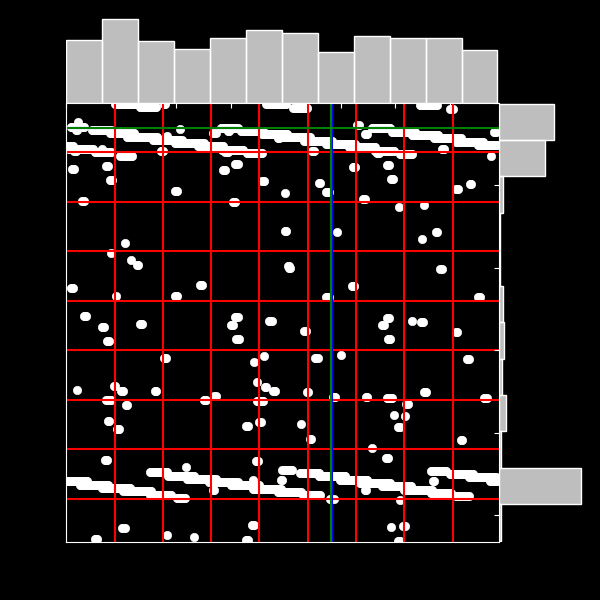
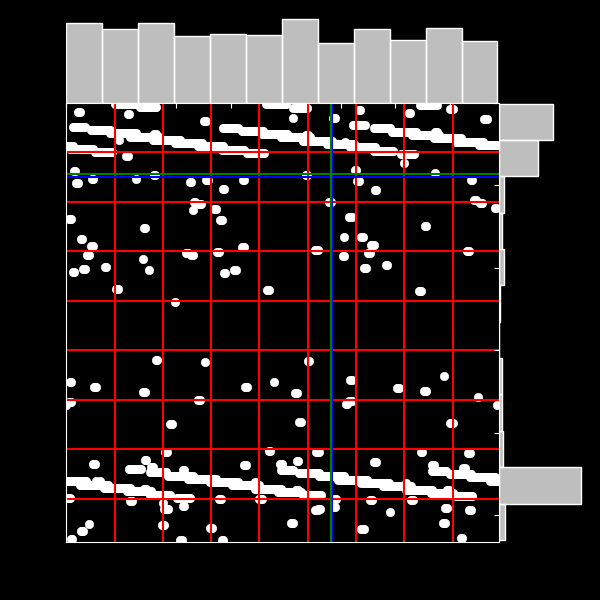
exchange drift positions, latest status

diff --git a/actr/socket_manager.py b/actr/socket_manager.py
@@ -7,3 +7,5 @@ comet_socket = rpc_interface.start_connection()
 move_socket = rpc_interface.start_connection()
 
 surface_socket = rpc_interface.start_connection()
+
+drift_socket = rpc_interface.start_connection()

diff --git a/actr/rpc_interface.py b/actr/rpc_interface.py
@@ -40,5 +40,5 @@ def receive(socket):
 def communicate_socket(sock, message):
     send(sock, message)
     message = receive(sock)
-
+    print(message)
     return message

diff --git a/actr/howto.md b/actr/howto.md
@@ -8,10 +8,17 @@ sbcl --dynamic-space-size 4096
 
 (load "~/git/ACT-R/load-act-r.lisp")
 
+(load "/home/scifaipy/git/ACT-R/environment/environment-cmds.lisp")
+(load "/home/scifaipy/git/ACT-R/environment/server.lisp")
 (load-act-r-model "./cognitive_model.lisp")
 
-(run 5)
+Now start start-environment-Linux
 
+Now start Dodge Asteroids PyGame:
+conda activate ./conda
+python run_exp*
+
+(run 5) or (run-step)
 
 
 Current problem:
